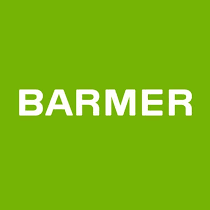
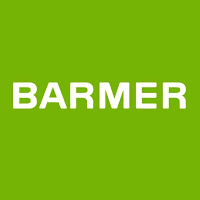
resize image seeds for insurances and banks

Changed region(s): [[0.06, 0.39, 0.93, 0.57]]

diff --git a/db/seeds.rb b/db/seeds.rb
@@ -192,12 +192,12 @@ banks = Bank.create([{name: "N26", english_customer_support: 8, signup_process: 
      {name: "Commerzbank", english_customer_support: 5, signup_process: 6, bank_fees: 7, atm_fees: 5, banking_features: 8, summary: "For most expats, Commerzbank’s more comprehensive services become relevant if staying in Germany longer-term. We suggest starting with N26 and then considering Commerzbank as and when you can benefit from their traditional banking services.", image: "commerzbank.png"},
       {name: "Deutsche Bank", english_customer_support: 7, signup_process: 6, bank_fees: 7, atm_fees: 5, banking_features: 8, summary: "While similar to Commerzbank in its offering, Deutsche Bank is arguably slightly less geared towards expat customers. Having browsed their materials extensively, we found them to be the most ‘German’ of our four best banks in Germany.", image: "deutschebank.png"}])
 
-public_insurances = Insurance.create([{name: "Techniker Krankenkasse", private: false, summary: "Great English-speaking sign-up process and support.", image: "techniker.png" },
+public_insurances = Insurance.create([{name: "Techniker Krankenkasse", private: false, summary: "Great English-speaking sign-up process and support.", image: "tk.png" },
      {name: "AOK Baden Württemberg", private: false, summary: "Excellent range of services for elderly people.", image: "AOK.png"},
      {name: "Barmer Ersatzkasse", private: false, summary: "Highly rated customer service and helpline.", image: "barmer.png"}])
 
-private_insurances = Insurance.create([{name: "DR-WALTER", private: true, summary: "Excellent cover for young professionals", image: "insurance4.png"},
-    {name: "AXA", private: true, summary: "Really good cover for retired professionals", image: "insurance5.png"},
-    {name: "Allianz", private: true, summary: "Amazing all round long term cover", image: "insurance6.png"}])
+private_insurances = Insurance.create([{name: "DR-WALTER GmbH", private: true, summary: "Great option for shorter-term stays in Germany, long-term travellers and globetrotters.", image: "walter.png"},
+    {name: "AXA Versicherungen", private: true, summary: "Large provider offering flexible packages for independent workers as well as employees.", image: "AXA.png"},
+    {name: "Allianz", private: true, summary: "One of the largest three medical insurance companies in the world, with English speaking support services.", image: "allianz.png"}])
 
 puts 'Seeding finished.'
